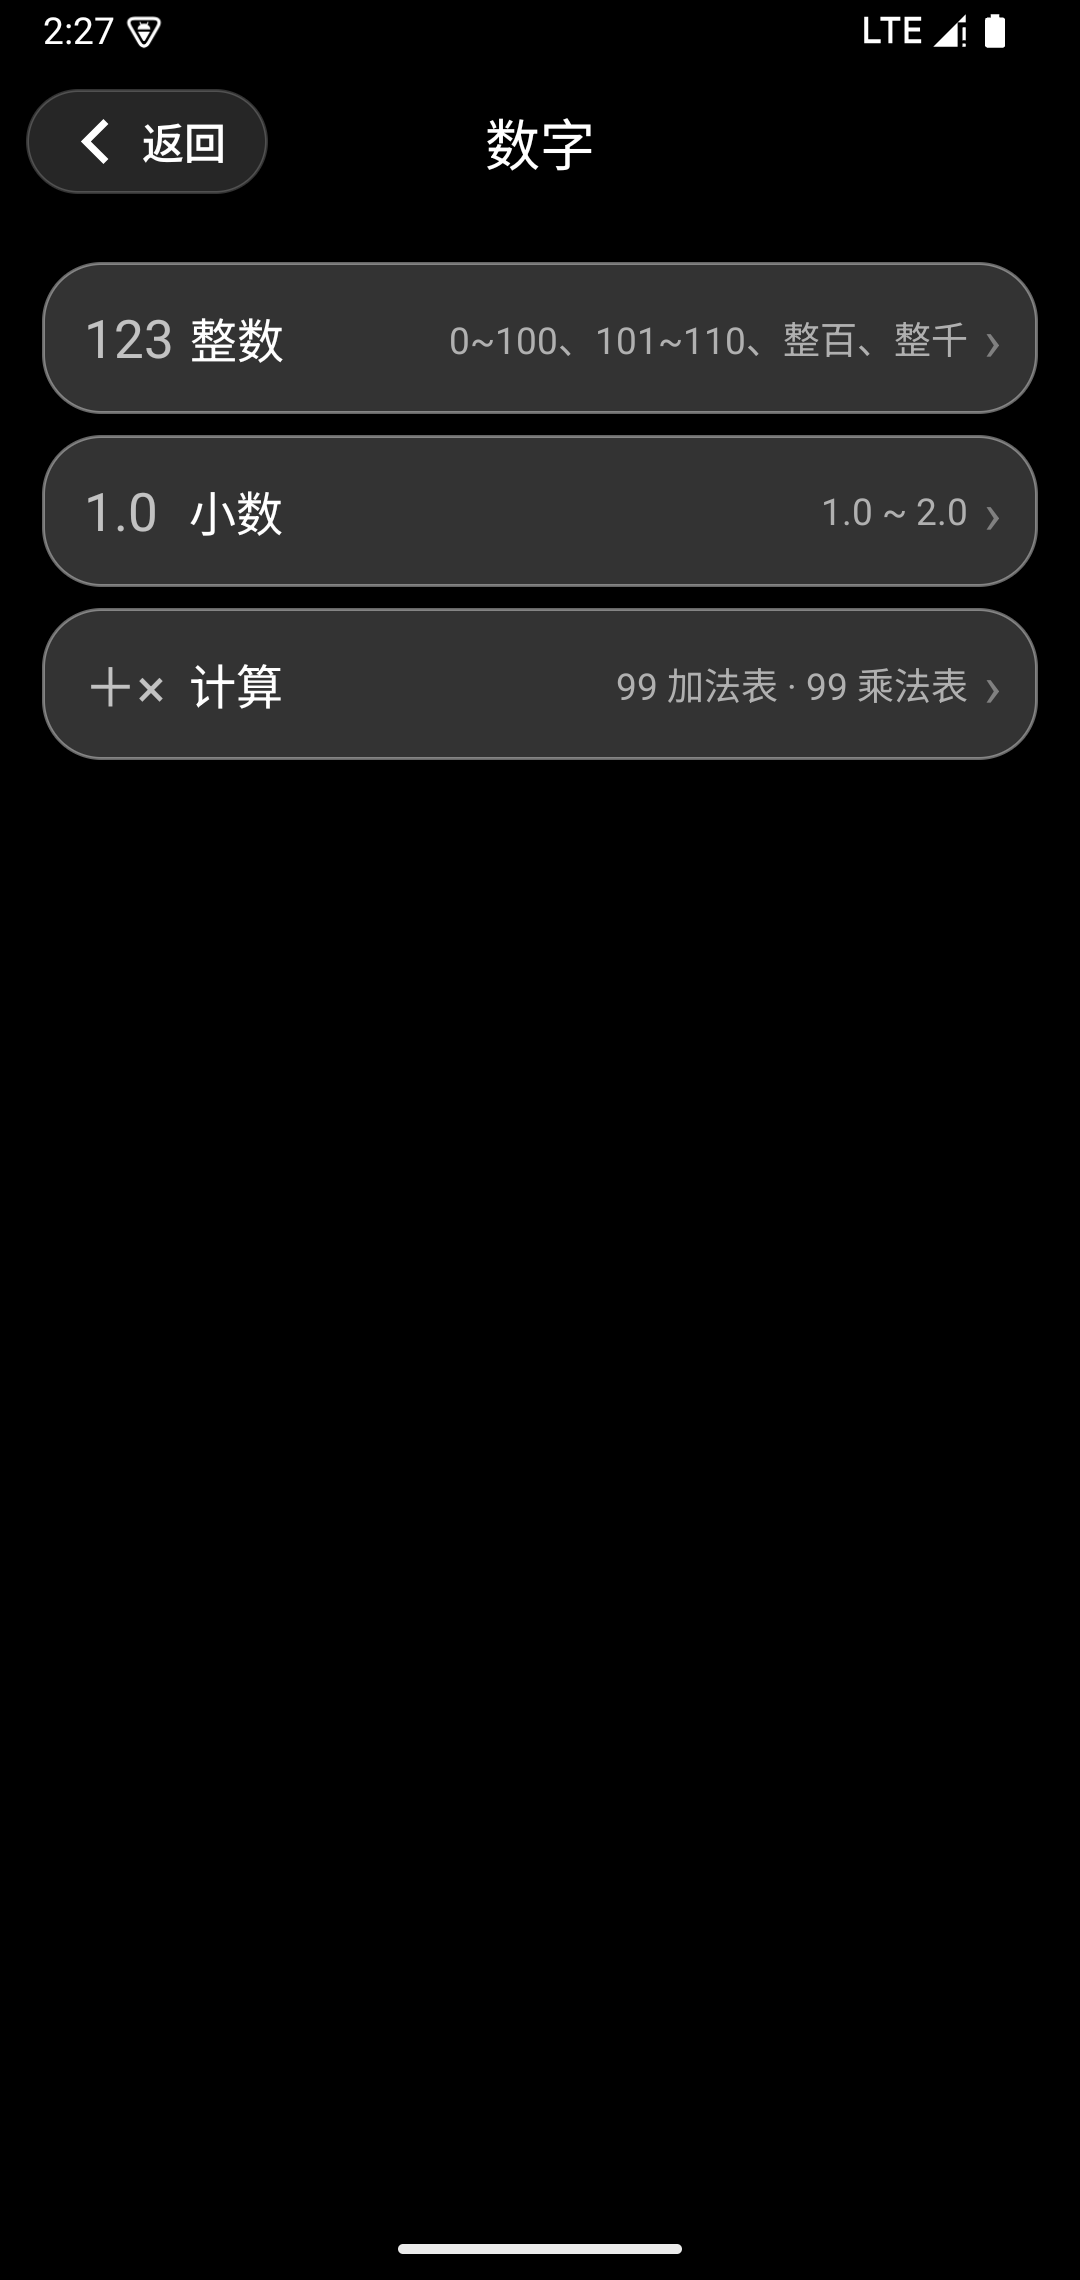
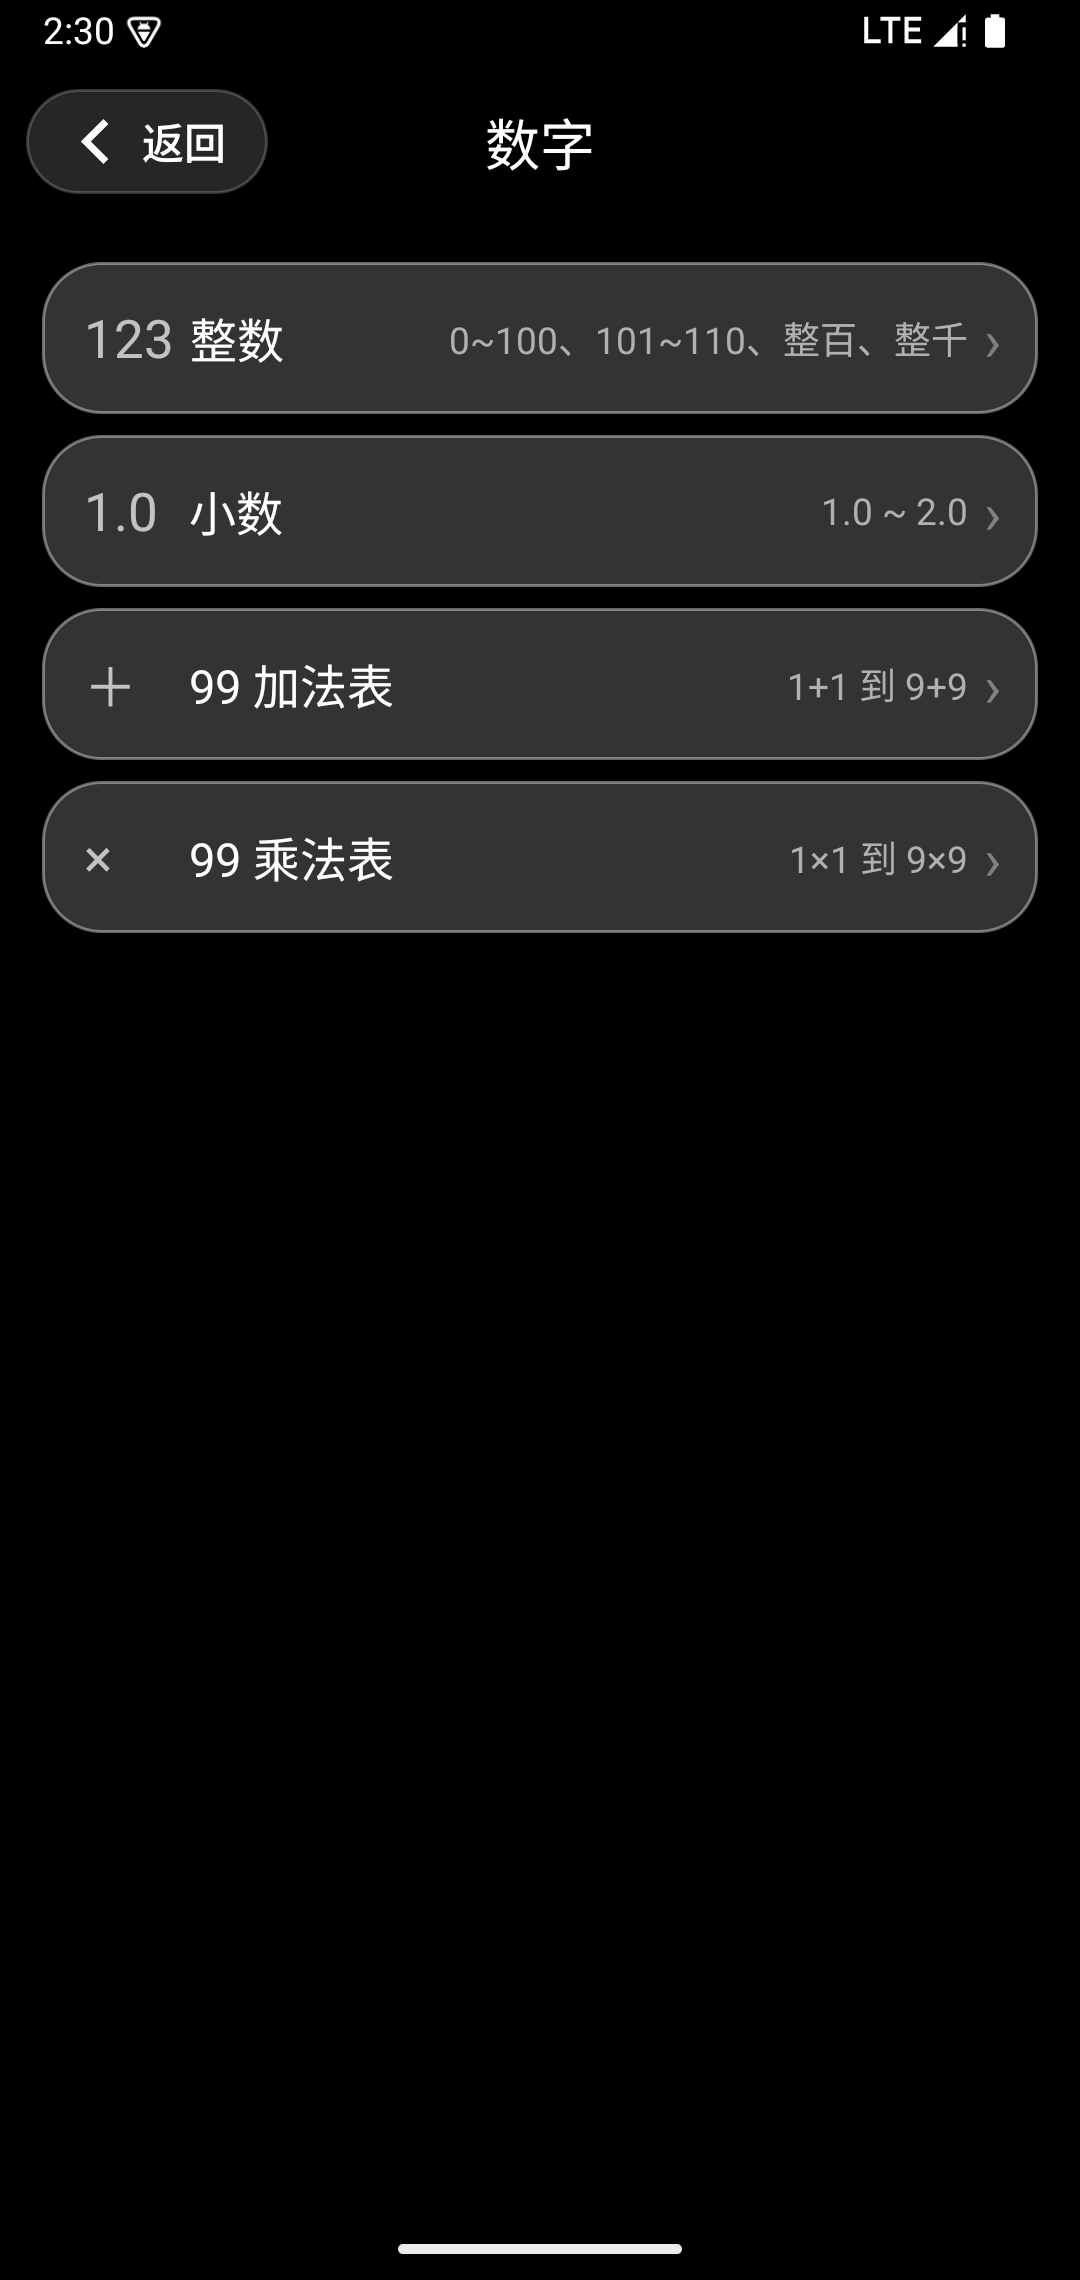
数字二级菜单拆成四项：整数 / 小数 / 99 加法表 / 99 乘法表，加法表和乘法表各自独立成页

diff --git a/app/src/main/java/com/easyword/learn/ui/NumberTilesActivity.java b/app/src/main/java/com/easyword/learn/ui/NumberTilesActivity.java
@@ -22,19 +22,20 @@ import java.util.List;
 
 /**
  * 数字子页：整数（0~100、101~110、整百、1001~1010、1100/1101、整千）、
- * 小数（1.0~2.0）、99 加法表和乘法表。
+ * 小数（1.0~2.0）、99 加法表、99 乘法表。
  *
- * <p>格子点一下读一个；分类标题右边的喇叭会把这一分类从头读一遍，
+ * <p>格子点一下读一个；标题右边的喇叭会把这一页从头读一遍，
  * 读到哪一格哪一格套上黄色边框。</p>
  */
 public class NumberTilesActivity extends AppCompatActivity {
 
     private static final String EXTRA_KEY = "number_key";
 
-    /** 二级菜单的三个入口。 */
+    /** 二级菜单的四个入口。 */
     public static final String KEY_INTEGER = "integer";
     public static final String KEY_DECIMAL = "decimal";
-    public static final String KEY_CALC = "calc";
+    public static final String KEY_ADD = "add";
+    public static final String KEY_MULTIPLY = "multiply";
 
     private ActivityTilesBinding binding;
     private TTSManager tts;
@@ -60,10 +61,12 @@ public class NumberTilesActivity extends AppCompatActivity {
         if (KEY_DECIMAL.equals(key)) {
             binding.bar.textBarTitle.setText(R.string.number_decimal);
             addNumberSection(R.string.number_section_decimal, decimals(), 4);
-        } else if (KEY_CALC.equals(key)) {
-            binding.bar.textBarTitle.setText(R.string.number_calc);
-            addFormulaSection(R.string.number_add, false);
-            addFormulaSection(R.string.number_multiply, true);
+        } else if (KEY_ADD.equals(key)) {
+            binding.bar.textBarTitle.setText(R.string.number_add);
+            addFormulaSection(R.string.number_section_add, false);
+        } else if (KEY_MULTIPLY.equals(key)) {
+            binding.bar.textBarTitle.setText(R.string.number_multiply);
+            addFormulaSection(R.string.number_section_multiply, true);
         } else {
             binding.bar.textBarTitle.setText(R.string.number_integer);
             addNumberSection(R.string.number_section_integer, integers(), 4);
@@ -113,7 +116,7 @@ public class NumberTilesActivity extends AppCompatActivity {
         addSection(getString(titleRes), items, says, columns);
     }
 
-    /** 算式分类：99 加法表 / 99 乘法表，算式里的 + × 读成「加 / 乘」。 */
+    /** 99 加法表 / 99 乘法表：算式里的 + × 读成「加 / 乘」。 */
     private void addFormulaSection(int titleRes, boolean multiply) {
         List<String> items = new ArrayList<>();
         List<String> says = new ArrayList<>();

diff --git a/app/src/main/java/com/easyword/learn/ui/NumberActivity.java b/app/src/main/java/com/easyword/learn/ui/NumberActivity.java
@@ -35,8 +35,10 @@ public class NumberActivity extends AppCompatActivity {
                 getString(R.string.number_menu_integer_value), NumberTilesActivity.KEY_INTEGER);
         addRow("1.0", getString(R.string.number_decimal),
                 getString(R.string.number_menu_decimal_value), NumberTilesActivity.KEY_DECIMAL);
-        addRow("＋×", getString(R.string.number_calc),
-                getString(R.string.number_menu_calc_value), NumberTilesActivity.KEY_CALC);
+        addRow("＋", getString(R.string.number_add),
+                getString(R.string.number_menu_add_value), NumberTilesActivity.KEY_ADD);
+        addRow("×", getString(R.string.number_multiply),
+                getString(R.string.number_menu_multiply_value), NumberTilesActivity.KEY_MULTIPLY);
     }
 
     private void addRow(String icon, String title, String value, String key) {

diff --git a/README.md b/README.md
@@ -84,8 +84,9 @@
   - **数字**：二级菜单进去再选
     - 整数：0~100、101~110、整百、1001~1010、1100、1101、整千
     - 小数：1.0~2.0
-    - 计算：99 加法表、99 乘法表
-  - 每个分类标题右边都有喇叭，点一下**从头自动读一遍**，读到哪一格哪一格套上黄色边框；数字按中文读法念（101 → 一百零一、1010 → 一千零一十、1.1 → 一点一）
+    - 99 加法表：1+1 到 9+9
+    - 99 乘法表：1×1 到 9×9
+  - 每个页面标题右边都有喇叭，点一下**从头自动读一遍**，读到哪一格哪一格套上黄色边框；数字按中文读法念（101 → 一百零一、1010 → 一千零一十、1.1 → 一点一）
 
 <img src="docs/screenshots/07-profile.png" width="240"> <img src="docs/screenshots/08-grades.png" width="240"> <img src="docs/screenshots/09-batch.png" width="240">
 
